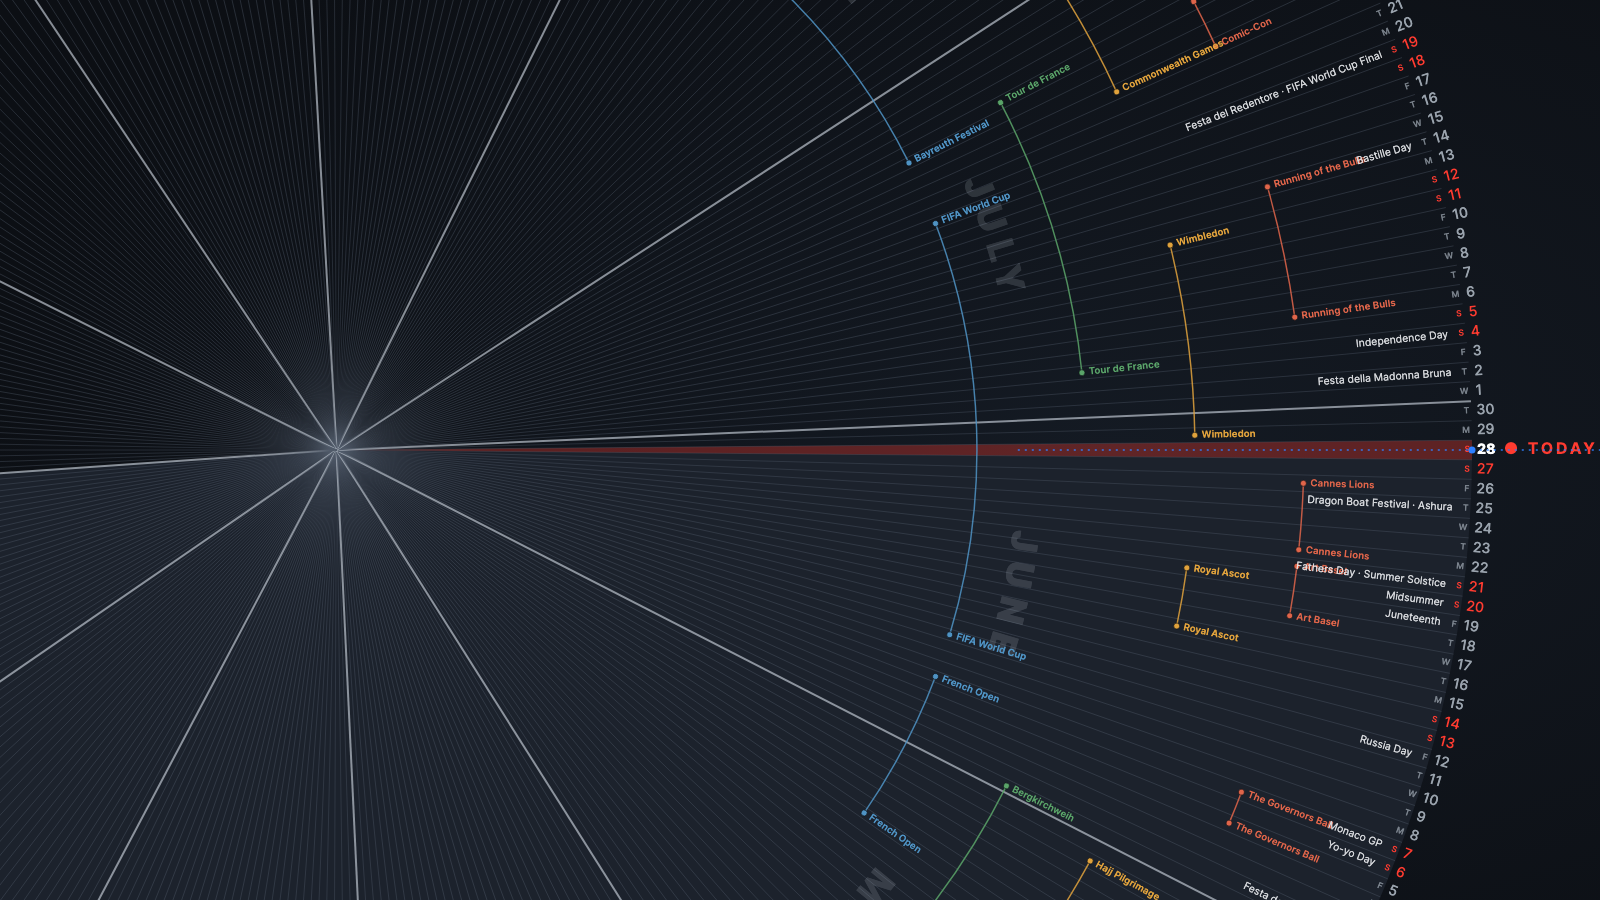
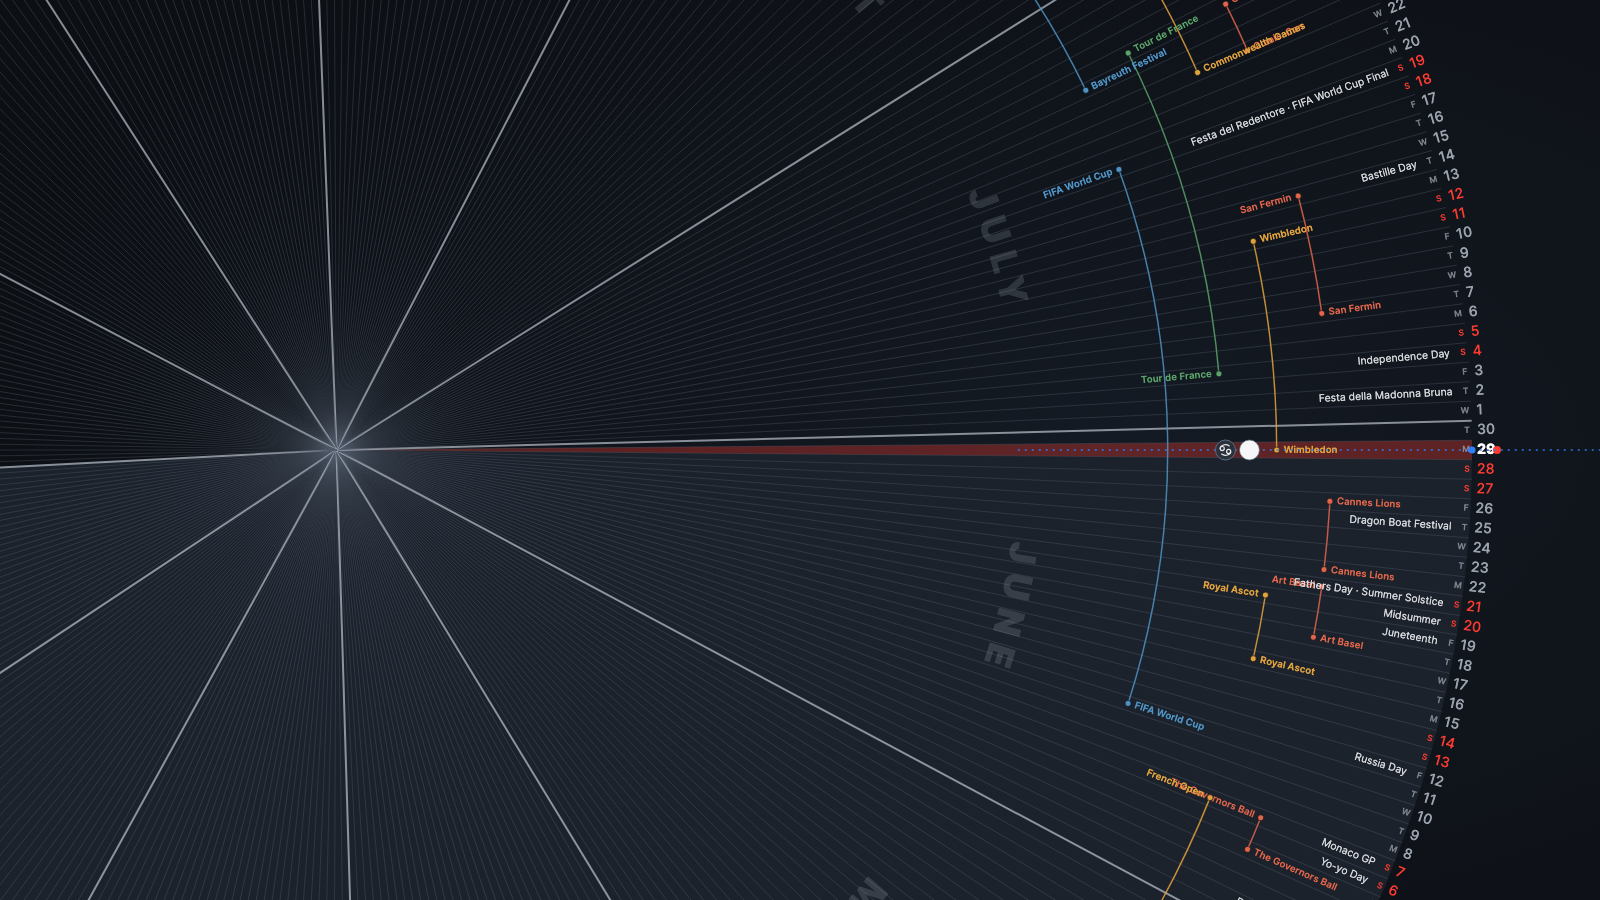
Update events, add moon phase + zodiac indicators
- Data: add Tokyo Marathon, MLB Opening Day, World Series range, Met Gala,
  La Biennale; rename/respan Eurovision, San Fermin, Rosh Hashanah; remove
  Islamic and Indian holidays plus several festival ranges.
- Rings: distribute multi-day events from the perimeter inward (shorter
  events outermost), feather spacing, push event labels inward when they
  clash with holiday text.
- Wheel: clockwise winding, weekday letters with red weekends, full-length
  ticks, dark past-region shading, today red dot.
- Add a procedural moon-phase indicator and a Lucide zodiac sun-sign icon
  on the now-line, both updating as the wheel spins.

diff --git a/src/radial.js b/src/radial.js
@@ -1,6 +1,24 @@
 // Radial calendar renderer + spin interaction (SVG based).
 
+import { ZODIAC_ICONS } from "./zodiac.js";
+
 const SVGNS = "http://www.w3.org/2000/svg";
+
+// Sun sign for a given month (0-based) and day. Each entry is the sign that
+// runs into this month and the last day it occupies before the next sign begins.
+const ZODIAC_BY_MONTH = [
+  ["capricorn", 19], ["aquarius", 18], ["pisces", 20], ["aries", 19],
+  ["taurus", 20], ["gemini", 20], ["cancer", 22], ["leo", 22],
+  ["virgo", 22], ["libra", 22], ["scorpio", 21], ["sagittarius", 21],
+];
+const ZODIAC_ORDER = [
+  "capricorn", "aquarius", "pisces", "aries", "taurus", "gemini",
+  "cancer", "leo", "virgo", "libra", "scorpio", "sagittarius",
+];
+function zodiacSign(monthIndex, date) {
+  const [name, cut] = ZODIAC_BY_MONTH[monthIndex];
+  return date <= cut ? name : ZODIAC_ORDER[(monthIndex + 1) % 12];
+}
 
 // Palette for the multi-day range tracks (A..E, inner -> outer).
 const TRACK_COLORS = [
@@ -10,6 +28,24 @@ const TRACK_COLORS = [
   "#4f93c4", // D - blue
   "#9b6bc4", // E - violet
 ];
+
+const MOON_NAMES = [
+  "New Moon", "Waxing Crescent", "First Quarter", "Waxing Gibbous",
+  "Full Moon", "Waning Gibbous", "Third Quarter", "Waning Crescent",
+];
+const SYNODIC = 29.530588853;                 // mean synodic month (days)
+const REF_NEW_MOON = Date.UTC(2000, 0, 6, 18, 14, 0); // a known new moon
+
+// SVG path for the lit portion of a moon of radius R at phase p (0 new .. 0.5 full
+// .. 1 new). The terminator is a continuously-scaled ellipse, so the shape morphs
+// smoothly for any fractional p — no discrete frames needed.
+function moonLitPath(R, p) {
+  const limbSweep = p < 0.5 ? 1 : 0;          // lit limb on the right (waxing) / left (waning)
+  const rx = Math.abs(Math.cos(p * 2 * Math.PI)) * R; // terminator half-width
+  const termSweep = p < 0.5 ? (p > 0.25 ? 1 : 0) : (p < 0.75 ? 0 : 1);
+  return `M 0 ${-R} A ${R} ${R} 0 0 ${limbSweep} 0 ${R} `
+       + `A ${rx.toFixed(2)} ${R} 0 0 ${termSweep} 0 ${-R} Z`;
+}
 
 const CFG = {
   // The outermost ring (the date numbers) lands at this fraction of width;
@@ -62,6 +98,7 @@ export class RadialCalendar {
     this.vel = 0; // deg/ms for momentum
     this.degPerDay = 360 / model.total;
     this.dir = -1; // winding direction: -1 = dates advance clockwise
+    this._yearStart = Date.UTC(model.year, 0, 1, 12, 0, 0);
     this.todayIndex = this._computeTodayIndex();
     this._raf = null;
     this._dragging = false;
@@ -132,6 +169,7 @@ export class RadialCalendar {
     this.H = rect.height || 800;
     this.svg.setAttribute("viewBox", `0 0 ${this.W} ${this.H}`);
     this._render();
+    this._positionMoon();
     this._applyTransform();
   }
 
@@ -150,9 +188,72 @@ export class RadialCalendar {
     this.wheel = el("g", { class: "wheel" });
     this.svg.appendChild(this.wheel);
 
-    // Fixed overlay (does not rotate): the red "today / now" reference line.
+    // Fixed overlay (does not rotate): the blue "now" reference line.
     this.overlay = el("g", { class: "overlay" });
     this.svg.appendChild(this.overlay);
+
+    // Moon phase indicator (drawn procedurally so it animates smoothly as you spin).
+    this.moon = el("g", { class: "moon" });
+    this.moonTitle = el("title");
+    this.moonDisc = el("circle", { cx: 0, cy: 0, r: 1, class: "moon-disc" });
+    this.moonLit = el("path", { d: "", class: "moon-lit" });
+    this.moonRing = el("circle", { cx: 0, cy: 0, r: 1, class: "moon-ring" });
+    this.moon.appendChild(this.moonTitle);
+    this.moon.appendChild(this.moonDisc);
+    this.moon.appendChild(this.moonLit);
+    this.moon.appendChild(this.moonRing);
+    this.svg.appendChild(this.moon);
+
+    // Zodiac (sun sign) indicator in a matching circle next to the moon.
+    this.zodiac = el("g", { class: "zodiac" });
+    this.zTitle = el("title");
+    this.zRing = el("circle", { cx: 0, cy: 0, r: 1, class: "zodiac-ring" });
+    this.zIcon = el("g", { class: "zodiac-icon" });
+    this.zodiac.appendChild(this.zTitle);
+    this.zodiac.appendChild(this.zRing);
+    this.zodiac.appendChild(this.zIcon);
+    this.svg.appendChild(this.zodiac);
+  }
+
+  _positionMoon() {
+    const g = this._geom();
+    this._moonR = 10; // 20px diameter
+    const bandStep = this._bandStep || (g.rangeOut - g.rangeIn) / this.laneCount;
+    const rMoon = g.rangeOut - 2 * bandStep; // between the 2nd (yellow) and 3rd (green) rings
+    this.moon.setAttribute("transform", `translate(${g.cx + rMoon} ${g.cy})`);
+    this.moonDisc.setAttribute("r", this._moonR);
+    this.moonRing.setAttribute("r", this._moonR);
+
+    // Zodiac circle sits just inward (toward centre) of the moon, same size.
+    const zR = 10;
+    const icon = 14; // icon size inside the 20px circle
+    const sc = icon / 24;
+    this.zRing.setAttribute("r", zR);
+    this.zIcon.setAttribute("transform", `translate(${-icon / 2} ${-icon / 2}) scale(${sc})`);
+    this.zodiac.setAttribute("transform", `translate(${g.cx + rMoon - 2 * zR - 4} ${g.cy})`);
+
+    this._updateMoon();
+    this._updateZodiac(this._lastDay);
+  }
+
+  _updateZodiac(day) {
+    if (!day || !this.zIcon) return;
+    const sign = zodiacSign(day.monthIndex, day.date);
+    if (sign !== this._zsign) {
+      this._zsign = sign;
+      this.zIcon.innerHTML = ZODIAC_ICONS[sign];
+      this.zTitle.textContent = sign.charAt(0).toUpperCase() + sign.slice(1);
+    }
+  }
+
+  _updateMoon() {
+    if (!this.moonLit || !this._moonR) return;
+    const focusFloat = -this.rot / (this.degPerDay * this.dir);
+    const t = this._yearStart + focusFloat * 86400000;
+    let p = (((t - REF_NEW_MOON) / 86400000) % SYNODIC) / SYNODIC;
+    if (p < 0) p += 1;
+    this.moonLit.setAttribute("d", moonLitPath(this._moonR, p));
+    this.moonTitle.textContent = MOON_NAMES[Math.round(p * 8) % 8];
   }
 
   _render() {
@@ -202,8 +303,10 @@ export class RadialCalendar {
     this._renderMonths(gMonths, g);
 
     // --- multi-day events: thin line + a dot at each end, label starts at the dot.
-    //     Lane 0 hugs the perimeter; overlapping events stack inward. ---
-    const bandStep = (g.rangeOut - g.rangeIn) / this.laneCount;
+    //     Lane 0 hugs the perimeter; overlapping events stack inward. Rings are
+    //     feathered close together (capped step) since events are usually staggered. ---
+    const bandStep = Math.min((g.rangeOut - g.rangeIn) / this.laneCount, g.Ro * 0.048);
+    this._bandStep = bandStep;
     const evFs = Math.max(7, g.Ro * 0.0085);
 
     this.model.events.forEach((ev) => {
@@ -224,11 +327,14 @@ export class RadialCalendar {
       ends.forEach((idx) => {
         const sg = el("g", { transform: `rotate(${this.aDeg(idx)})` });
         sg.appendChild(el("circle", { cx: rc, cy: 0, r: CFG.dotR, fill: color, class: "range-dot" }));
+        // If this end day also has single-day (holiday) text near the perimeter,
+        // push the event label inward (reading toward the centre) to avoid overlap.
+        const dayHasHoliday = this.model.days[idx] && this.model.days[idx].holidays.length > 0;
         const t = el("text", {
-          x: rc + CFG.dotR + 4, y: 0,
+          x: dayHasHoliday ? (rc - CFG.dotR - 4) : (rc + CFG.dotR + 4), y: 0,
           "font-size": evFs,
           "dominant-baseline": "middle",
-          "text-anchor": "start",
+          "text-anchor": dayHasHoliday ? "end" : "start",
           class: "range-label",
           fill: color,
         });
@@ -285,15 +391,10 @@ export class RadialCalendar {
       sg.appendChild(dateText);
 
       if (isToday) {
-        const tf = el("text", {
-          x: g.date + g.Ro * 0.028, y: 0,
-          "font-size": Math.max(11, g.Ro * 0.014),
-          "dominant-baseline": "middle",
-          "text-anchor": "start",
-          class: "today-flag",
-        });
-        tf.textContent = "● TODAY";
-        sg.appendChild(tf);
+        sg.appendChild(el("circle", {
+          cx: g.date + g.Ro * 0.022, cy: 0, r: Math.max(3, g.Ro * 0.0035),
+          class: "today-dot",
+        }));
       }
 
       gLabels.appendChild(sg);
@@ -330,6 +431,7 @@ export class RadialCalendar {
     const g = this._geom();
     this.wheel.setAttribute("transform", `translate(${g.cx} ${g.cy}) rotate(${this.rot})`);
     this._drawOverlay();
+    this._updateMoon();
     this._emitFocus();
   }
 
@@ -358,6 +460,7 @@ export class RadialCalendar {
     const day = this.model.days[idx];
     if (day && day !== this._lastDay) {
       this._lastDay = day;
+      this._updateZodiac(day);
       this.onFocusChange(day, idx === this.todayIndex);
     }
   }

diff --git a/styles.css b/styles.css
@@ -42,6 +42,21 @@ html, body {
 .past-seg { fill: #1c222c; }
 .today-seg { fill: var(--accent); opacity: 0.32; }
 
+/* moon phase indicator on the now-line (procedural) */
+.moon-disc { fill: #2b313b; }
+.moon-lit { fill: #f4f6f8; }
+.moon-ring { fill: none; stroke: #5b6b82; stroke-width: 1; opacity: 0.7; }
+
+/* zodiac (sun sign) indicator next to the moon */
+.zodiac-ring { fill: #2b313b; stroke: #5b6b82; stroke-width: 1; }
+.zodiac-icon {
+  fill: none;
+  stroke: #e8eaed;
+  stroke-width: 2;
+  stroke-linecap: round;
+  stroke-linejoin: round;
+}
+
 .date-num { fill: var(--ink-dim); font-weight: 500; }
 .date-num.weekend { fill: var(--accent); }
 .date-num.today { fill: #fff; font-weight: 800; }
@@ -77,9 +92,5 @@ html, body {
 }
 .now-dot { fill: var(--now); }
 
-/* rotating marker pinned to today's spoke */
-.today-flag {
-  fill: var(--accent);
-  font-weight: 700;
-  letter-spacing: 0.18em;
-}
+/* red dot pinned to today's spoke */
+.today-dot { fill: var(--accent); }

diff --git a/src/zodiac.js b/src/zodiac.js
@@ -1,0 +1,15 @@
+// Lucide zodiac icons (v1.22.0, ISC). Inner SVG shapes, 24x24 viewBox.
+export const ZODIAC_ICONS = {
+  aries: `<path d="M12 7.5a4.5 4.5 0 1 1 5 4.5" /> <path d="M7 12a4.5 4.5 0 1 1 5-4.5V21" />`,
+  taurus: `<circle cx="12" cy="15" r="6" /> <path d="M18 3A6 6 0 0 1 6 3" />`,
+  gemini: `<path d="M16 4.525v14.948" /> <path d="M20 3A17 17 0 0 1 4 3" /> <path d="M4 21a17 17 0 0 1 16 0" /> <path d="M8 4.525v14.948" />`,
+  cancer: `<path d="M21 14.5A9 6.5 0 0 1 5.5 19" /> <path d="M3 9.5A9 6.5 0 0 1 18.5 5" /> <circle cx="17.5" cy="14.5" r="3.5" /> <circle cx="6.5" cy="9.5" r="3.5" />`,
+  leo: `<path d="M10 16c0-4-3-4.5-3-8a5 5 0 0 1 10 0c0 3.466-3 6.196-3 10a3 3 0 0 0 6 0" /> <circle cx="7" cy="16" r="3" />`,
+  virgo: `<path d="M11 5.5a1 1 0 0 1 5 0V16a5 5 0 0 0 5 5" /> <path d="M16 11.5a1 1 0 0 1 5 0V16a5 5 0 0 1-5 5" /> <path d="M6 19V6a3 3 0 0 0-3-3h0" /> <path d="M6 5.5a1 1 0 0 1 5 0V19" />`,
+  libra: `<path d="M3 16h6.857c.162-.012.19-.323.038-.38a6 6 0 1 1 4.212 0c-.153.057-.125.368.038.38H21" /> <path d="M3 20h18" />`,
+  scorpio: `<path d="M10 19V5.5a1 1 0 0 1 5 0V17a2 2 0 0 0 2 2h5l-3-3" /> <path d="m22 19-3 3" /> <path d="M5 19V5.5a1 1 0 0 1 5 0" /> <path d="M5 5.5A2.5 2.5 0 0 0 2.5 3" />`,
+  sagittarius: `<path d="M15 3h6v6" /> <path d="M21 3 3 21" /> <path d="m9 9 6 6" />`,
+  capricorn: `<path d="M11 21a3 3 0 0 0 3-3V6.5a1 1 0 0 0-7 0" /> <path d="M7 19V6a3 3 0 0 0-3-3h0" /> <circle cx="17" cy="17" r="3" />`,
+  aquarius: `<path d="m2 10 2.456-3.684a.7.7 0 0 1 1.106-.013l2.39 3.413a.7.7 0 0 0 1.096-.001l2.402-3.432a.7.7 0 0 1 1.098 0l2.402 3.432a.7.7 0 0 0 1.098 0l2.389-3.413a.7.7 0 0 1 1.106.013L22 10" /> <path d="m2 18.002 2.456-3.684a.7.7 0 0 1 1.106-.013l2.39 3.413a.7.7 0 0 0 1.097 0l2.402-3.432a.7.7 0 0 1 1.098 0l2.402 3.432a.7.7 0 0 0 1.098 0l2.389-3.413a.7.7 0 0 1 1.106.013L22 18.002" />`,
+  pisces: `<path d="M19 21a15 15 0 0 1 0-18" /> <path d="M20 12H4" /> <path d="M5 3a15 15 0 0 1 0 18" />`,
+};